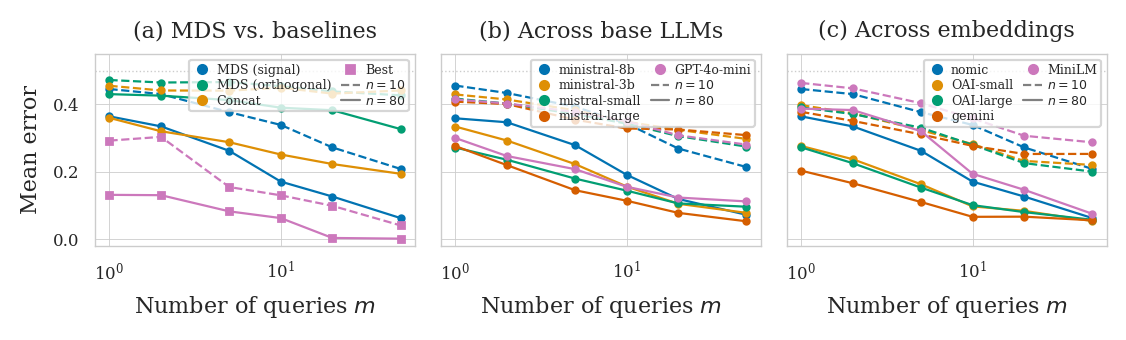
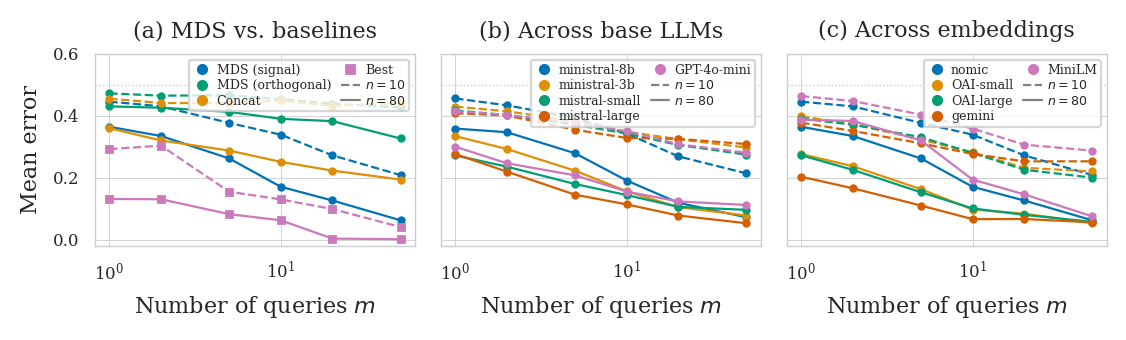
Increase figure 4 y-axis range to 0.60 for legend clearance

Changed region(s): [[0.0311, 0.2059, 0.9947, 0.7059], [0.0311, 0.1471, 0.0933, 0.1765]]

diff --git a/scripts/plot_system_prompt_figure.py b/scripts/plot_system_prompt_figure.py
@@ -138,7 +138,7 @@ def plot_figure(csv_path, embed_csv_path=None, oracle_csv_path=None,
 
     ax_a.axhline(y=0.5, color="gray", linestyle=":", alpha=0.4, linewidth=0.5)
     ax_a.set_xscale("log")
-    ax_a.set_ylim(-0.02, 0.55)
+    ax_a.set_ylim(-0.02, 0.60)
     ax_a.set_xlabel("Number of queries $m$")
     ax_a.set_ylabel("Mean error")
     ax_a.set_title("(a) MDS vs. baselines")
@@ -185,7 +185,7 @@ def plot_figure(csv_path, embed_csv_path=None, oracle_csv_path=None,
 
     ax_b.axhline(y=0.5, color="gray", linestyle=":", alpha=0.4, linewidth=0.5)
     ax_b.set_xscale("log")
-    ax_b.set_ylim(-0.02, 0.55)
+    ax_b.set_ylim(-0.02, 0.60)
     ax_b.set_xlabel("Number of queries $m$")
     ax_b.set_yticklabels([])
     ax_b.set_title("(b) Across base LLMs")
@@ -228,7 +228,7 @@ def plot_figure(csv_path, embed_csv_path=None, oracle_csv_path=None,
 
     ax_c.axhline(y=0.5, color="gray", linestyle=":", alpha=0.4, linewidth=0.5)
     ax_c.set_xscale("log")
-    ax_c.set_ylim(-0.02, 0.55)
+    ax_c.set_ylim(-0.02, 0.60)
     ax_c.set_xlabel("Number of queries $m$")
     ax_c.set_yticklabels([])
     ax_c.set_title("(c) Across embeddings")
